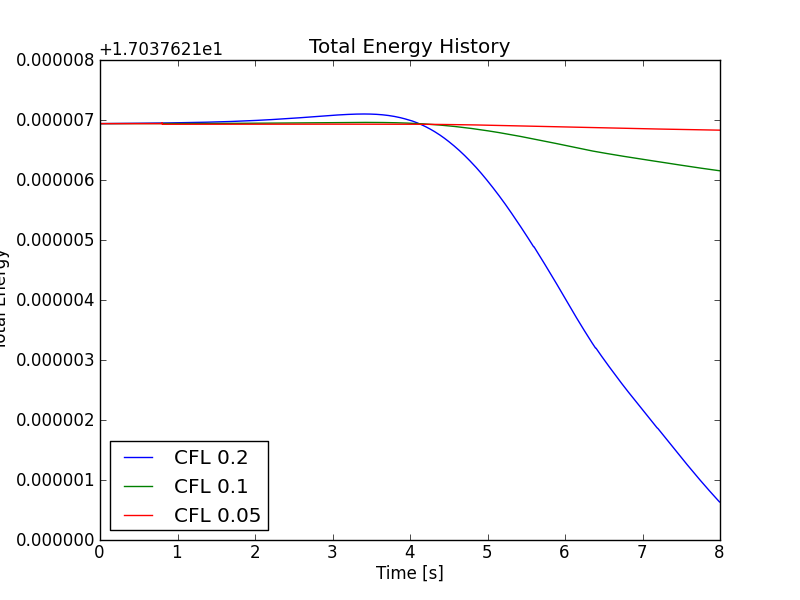
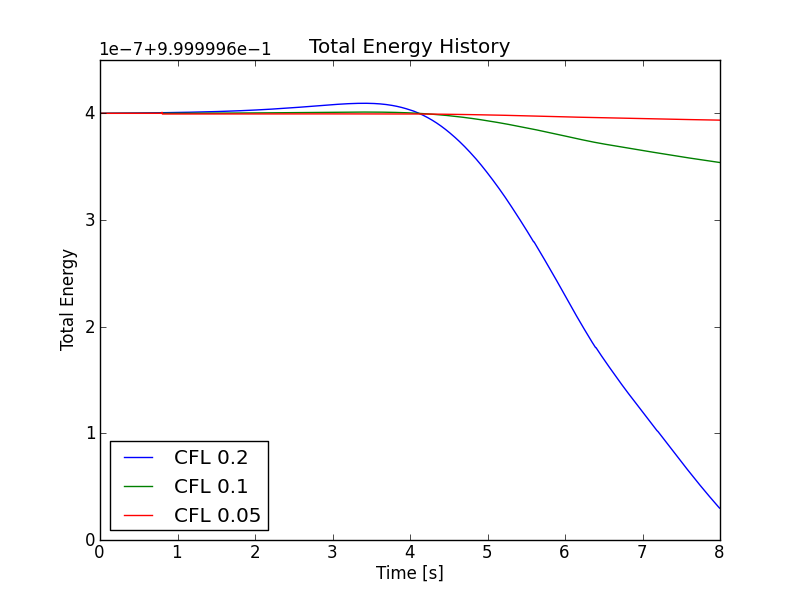
Updated text with energy conservation plot and verbiage.

diff --git a/sims/s130/plot-double-shear-cmp.py b/sims/s130/plot-double-shear-cmp.py
@@ -126,9 +126,9 @@ tr_129 = pylab.loadtxt('../s129/s129-double-shear_totalEnergy')
 tr_130 = pylab.loadtxt('../s130/s130-double-shear_totalEnergy')
 
 refTe = tr_125[0,1]
-pylab.plot(tr_125[:,0], tr_125[:,1]-tr_125[0,1]+refTe, label='CFL 0.2')
-pylab.plot(tr_129[:,0], tr_129[:,1]-tr_129[0,1]+refTe, label='CFL 0.1')
-pylab.plot(tr_130[:,0], tr_130[:,1]-tr_130[0,1]+refTe, label='CFL 0.05')
+pylab.plot(tr_125[:,0], (tr_125[:,1]-tr_125[0,1]+refTe)/refTe, label='CFL 0.2')
+pylab.plot(tr_129[:,0], (tr_129[:,1]-tr_129[0,1]+refTe)/refTe, label='CFL 0.1')
+pylab.plot(tr_130[:,0], (tr_130[:,1]-tr_130[0,1]+refTe)/refTe, label='CFL 0.05')
 pylab.legend(loc='lower left')
 pylab.title('Total Energy History')
 pylab.xlabel('Time [s]')

diff --git a/je/je13/je13-incomp-euler-2d.rst b/je/je13/je13-incomp-euler-2d.rst
@@ -48,7 +48,7 @@ to solve this set of equations.
   As of May 15th 2012 there is a bug in my Poisson solver which feeds
   in a non-symmetric matrix to PetSc. This causes very small errors in
   the potential, which, however, greatly magnify the errors in the
-  total energy. In fact, the total energy plots look bizzare although
+  total energy. In fact, the total energy plots look bizarre although
   the solution is just fine.
 
   Till this problem is fixed Gkeyll needs to be run with the
@@ -96,8 +96,8 @@ simulations.
   resolution of features as the spatial order and grid resolution is
   increased.
 
-In the following two figures the energy and enstropy history as a
-function of time is shown. Note that these are conserved quantites of
+In the following two figures the energy and enstrophy history as a
+function of time is shown. Note that these are conserved quantities of
 the incompressible Euler equations but need not be conserved by the
 numerical scheme.
 
@@ -119,8 +119,13 @@ numerical scheme.
   schemes. Increasing spatial order and grid resolution reduces the
   drop in enstrophy as expected.
 
-Even with upwind fluxes (used in all the simulations shown above), the
-energy should be conserved to the order of the scheme.
+Even with upwind fluxes (used in all the simulations shown above), one
+can show that the energy is conserved by the spatial discretization
+exactly. However, in the actual simulations there is a small loss in
+energy due to the dissipation added from the Runge-Kutta time-stepping
+and energy conservation holds only as :math:`\Delta t \rightarrow 0`
+with the same order as the time integration scheme. This is clearly
+seen in the plot shown below.
 
 .. figure:: s125s129s130-double-shear-totalEnergy_cmp.png
   :width: 100%
@@ -134,4 +139,4 @@ energy should be conserved to the order of the scheme.
   :math:`6.3\times 10^{-6}`, :math:`7.8\times 10^{-7}` and
   :math:`1.1\times 10^{-7}` respectively. This gives energy
   convergence order of 3.0 and 2.8 respectively.
- 
+  
